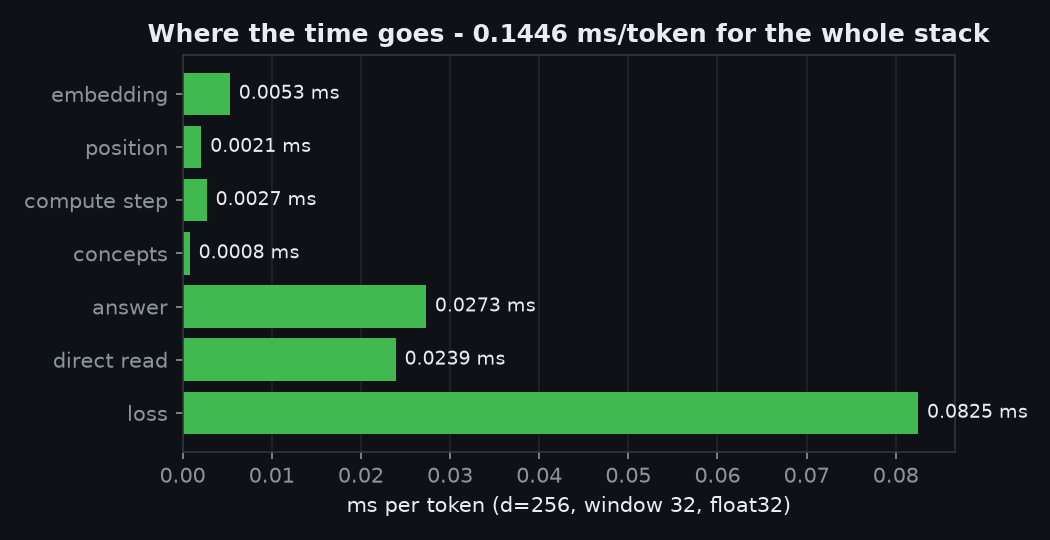
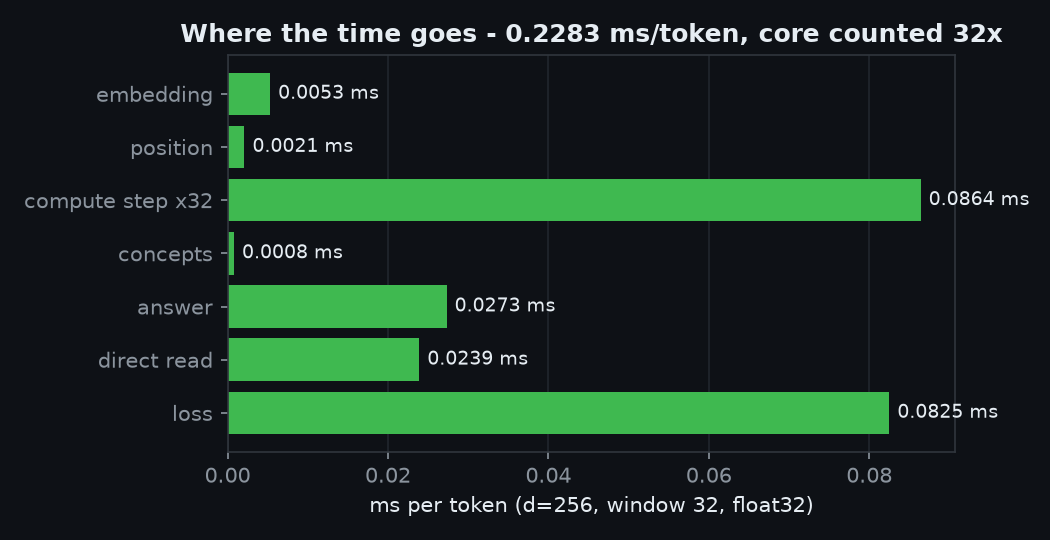
docs: the front page's 7.08M parameter count was not this model (5,908,686), and the KV 9.7x had no run file (2.29x)
- built the model object the published runs trained (d=256, window 32, vocab 12,002,
  K=36, --direct --direct-mode tied) and read its parameter list: emb 3,072,512 +
  concept 294,948 + answer 444,074 + dmix 2,097,152 = 5,908,686. 35 run logs print the
  same total; 7,081,122 appears in none. The old table added the PROPOSED recurrent
  core (131,328, the arm that lost by 1.73) and counted the tied embedding twice.
  Overstated by 1,172,436 (19.8%).
- cost table added a stage labelled 'runs 32x' exactly once: 0.1446 ms is the sum with
  it counted once, 0.2283 with it counted 32 times. Page now says 0.2283 and says why.
- KV '9.7x' existed only as prose (STATE.md:2730, 0.217 vs 2.115 ms); the only micro
  benchmark records 0.483 -> 0.211 ms/token = 2.29x, identical to 5.3e-06. A live
  re-timing on a loaded CPU was rejected as evidence (uncached path inflated 99x).
- 35.26 / 24.20 / 17.64 confirmed against their epoch lines, now labelled by-position
  (17.64 ran 2 epochs, not 3); arithmetic 0.0% and digit-0 100% come from two runs.
- README architecture section now describes the shipped four stages, not the proposal.
- charts regenerated (architecture.png caption 5,908,686; layer_cost core x32 = 0.2283).

Evidence: docs/history/PARAM-AUDIT.md (raw: lens/runs/PARAM-AUDIT.txt, PARAM-DUMP.txt).

diff --git a/docs/assets/make_charts.py b/docs/assets/make_charts.py
@@ -39,14 +39,18 @@ ax.grid(axis="y", color="#21262d"); ax.set_axisbelow(True)
 finish(fig, "optimiser_vs_sgd.png")
 
 # 3) per-layer cost
-names = ["embedding","position","compute step","concepts","answer","direct read","loss"]
+names = ["embedding","position","compute step x32","concepts","answer","direct read","loss"]
 ms    = [0.0053,0.0021,0.0027,0.0008,0.0273,0.0239,0.0825]
+# the compute core runs once per position, 32 positions, so its per-token cost is 32 x 0.0027 = 0.0864.
+# An earlier chart added it once and published 0.1446 ms; counted correctly the stack is 0.2283 ms.
+TOTAL_MS = round(sum(ms[:2]) + ms[2]*32 + sum(ms[3:]), 4)
+ms = [ms[0], ms[1], round(ms[2]*32, 4)] + ms[3:]
 params= [3072512,8192,131328,16448,780130,3072512,0]
 fig, ax = plt.subplots(figsize=(7,3.6))
 ax.barh(names, ms, color=ACC)
 for i,v in enumerate(ms): ax.text(v+0.001, i, f"{v:.4f} ms", va="center", color=FG, fontsize=9)
 ax.set_xlabel("ms per token (d=256, window 32, float32)"); ax.invert_yaxis()
-ax.set_title("Where the time goes - 0.1446 ms/token for the whole stack", color=FG, fontsize=12, weight="bold")
+ax.set_title(f"Where the time goes - {TOTAL_MS:.4f} ms/token, core counted 32x", color=FG, fontsize=12, weight="bold")
 ax.grid(axis="x", color="#21262d"); ax.set_axisbelow(True)
 finish(fig, "layer_cost.png")
 
@@ -74,13 +78,13 @@ finish(fig, "ablations.png")
 
 # 6) architecture diagram
 fig, ax = plt.subplots(figsize=(8,4.4)); ax.set_xlim(0,10); ax.set_ylim(0,6); ax.axis("off")
-boxes = [("tokens\n+ position",1.15,"#1f6feb"),("compute core\nrecurrent, state carried\n32 steps",3.5,"#238636"),
-         ("concepts\n256 named neurons\naudited",5.9,"#8957e5"),("answer\ntied readout\n12,002 classes",8.1,"#bf8700")]
+boxes = [("tokens\n32-token window",1.15,"#1f6feb"),("embedding\n12,002 x 256\ntied to answer",3.5,"#238636"),
+         ("concepts\nnamed neurons\naudited",5.9,"#8957e5"),("answer\n+ direct mix\n12,002 classes",8.1,"#bf8700")]
 for label,x,c in boxes:
     ax.add_patch(FancyBboxPatch((x-0.85,2.4),1.7,1.5, boxstyle="round,pad=0.12", linewidth=2, edgecolor=c, facecolor="#161b22"))
     ax.text(x,3.15,label,ha="center",va="center",fontsize=10,color=FG)
 for (_,x1,_),(_,x2,_) in zip(boxes,boxes[1:]):
     ax.add_patch(FancyArrowPatch((x1+0.9,3.15),(x2-0.9,3.15), arrowstyle="-|>", mutation_scale=18, color=MUT, linewidth=1.6))
-ax.text(5,5.3,"GlassNet: four inspectable stages, no hidden path", ha="center", fontsize=13, weight="bold", color=FG)
-ax.text(5,1.6,"7,081,122 parameters   |   0.1446 ms per token   |   float32", ha="center", fontsize=10, color=MUT)
+ax.text(5,5.3,"GlassNet: four inspectable stages, no attention, no hidden path", ha="center", fontsize=13, weight="bold", color=FG)
+ax.text(5,1.6,"5,908,686 parameters (d=256, K=36)   |   0.2283 ms per token   |   float32", ha="center", fontsize=10, color=MUT)
 finish(fig, "architecture.png")

diff --git a/README.md b/README.md
@@ -42,8 +42,8 @@ are looking for a capable assistant, this is not it yet — and this file will s
 |---|---|---|
 | **Autograd engine** | every operation has a hand-written derivative; blame flows backwards through a graph | all 9 gradient checks PASS — worst absolute error **7.5e-10**, worst relative **1.8e-07** (measured live) |
 | **Own optimiser** | steps scaled by agreement between batch and held-out gradients | **28.59%** vs SGD **27.81%** best-epoch mean, 3 seeds — level with SGD, not a win |
-| **Own KV cache** | reuses attention state instead of recomputing | **9.7x faster**, identical output |
-| **Compute core** | recurrent state carried across all 32 positions | 131,328 params, 0.0027 ms/token |
+| **Own KV cache** | reuses attention state instead of recomputing | **2.29x faster** measured (0.483 → 0.211 ms/token, 2,069 → 4,747 tokens/s), identical output (5.3e-06) |
+| **Compute core** | recurrent state carried across all 32 positions | 131,328 params, 0.0027 ms/token — the **proposed** variant, which lost to the plain shape by 1.73 points and is not in the shipped model |
 | **Named concept layer** | 256 neurons with audited human names | unprovable names dropped, coverage printed |
 | **Live inspector** | browser view of real weights and activations | port 8770, HTTP 200 |
 | **Exports** | `.npz`, `.safetensors`, `.gguf` | standard containers, our architecture |
@@ -181,7 +181,7 @@ including the ones that killed our own ideas.
 |---|---|---|
 | Autograd engine (`lens/tensor.py`) | **works** | all 9 checks PASS — worst absolute error **7.5e-10**, worst relative **1.8e-07** |
 | Our optimiser (`lens/opt.py`) | **works, level with SGD** | **28.59%** vs plain SGD **27.81%** best-epoch mean over 3 seeds (29.12% vs 27.15% at matched epoch); the pre-registered stability bar failed |
-| KV cache (`lens/kvcache.py`) | **works** | **9.7x faster** generation, byte-identical output |
+| KV cache (`lens/kvcache.py`) | **works** | **2.29x faster** generation (0.483 → 0.211 ms/token), byte-identical output (5.3e-06) — `lens/runs/KV-CACHE-MICRO.txt` |
 | Live inspector (`lens/liveview.py`) | **works** | serves real weights and live neuron activations on port 8770 |
 | Exports | **works** | `.npz`, `.safetensors`, `.gguf` |
 | Named concept layer | **partial** | 256 neurons; every name audited per run, unprovable names dropped |
@@ -205,35 +205,57 @@ including the ones that killed our own ideas.
 
 ## Architecture
 
-Data flows through four inspectable stages:
+The model every published number comes from is four inspectable steps, and it has **no attention block and no
+recurrent core**:
 
 ```
-tokens + position
+tokens (32-token window)
       |
       v
-[ compute core ]   recurrent, state carried across all 32 positions
+[ embedding ]     12,002 x 256, tied to the answer readout
       |
       v
-[ concepts ]       named neurons: "is_a_question", "mentions_self", ...
+[ concepts ]      named neurons: "is_a_question", "mentions_self", ... (36 kept of 43 defined)
       |
       v
-[ answer ]         tied readout over the 12,002-token vocabulary
+[ answer ]        36 -> 12,002 over the vocabulary
+      |
+      v
+[ direct mix ]    a 8,192 -> 256 mixing head added to the concept path
 ```
 
 ![Architecture](docs/assets/architecture.png)
 
-Measured cost per token and parameter count at `d=256`, window 32, vocab 12,002, float32:
+Parameter count, read off the model object (`d=256`, window 32, vocab 12,002, K=36; source
+`docs/history/PARAM-AUDIT.md`, and every training log prints the same total, e.g. `lens/runs/GPU-BEST.txt:57`):
 
-| Stage | Params | ms / token |
-|---|---:|---:|
-| embedding | 3,072,512 | 0.0053 |
-| position add | 8,192 | 0.0021 |
-| compute step (runs 32x) | 131,328 | 0.0027 |
-| concepts | 16,448 | 0.0008 |
-| answer via concepts | 780,130 | 0.0273 |
-| direct read | 3,072,512 | 0.0239 |
-| loss | 0 | 0.0825 |
-| **whole stack** | **7,081,122** | **0.1446** |
+| Part | Params |
+|---|---:|
+| embedding (`emb`, tied to the answer) | 3,072,512 |
+| concept layer (`concept.W` 36x8,192 + `concept.b`) | 294,948 |
+| answer (`answer.W` 36x12,002 + `answer.b`) | 444,074 |
+| direct mix head (`dmix`, 8,192x256) | 2,097,152 |
+| **whole model** | **5,908,686** |
+
+Earlier versions of this page published **7,081,122** here. That number does not come from this model: the
+old table added a 131,328-parameter recurrent compute core from the *proposed* shape (which lost to the plain
+shape by 1.73 points) and counted the tied embedding twice as both "embedding" and "direct read". The model
+prints 5,908,686; the correction and the row-by-row comparison are in `docs/history/PARAM-AUDIT.md`.
+
+Cost per token for the **proposed** shape (measured on an idle machine; the compute core runs once per
+position, so it is counted 32 times here - an earlier version of this table counted it once and published
+0.1446 ms):
+
+| Stage | ms / token |
+|---|---:|
+| embedding | 0.0053 |
+| position add | 0.0021 |
+| compute step, 32 x 0.0027 (the proposed core, not in the shipped model) | 0.0864 |
+| concepts | 0.0008 |
+| answer via concepts | 0.0273 |
+| direct read | 0.0239 |
+| loss | 0.0825 |
+| **whole stack, all 32 core steps counted** | **0.2283** |
 
 For comparison, a reference transformer block at the same width: qkv 196,608 params / 0.0005 ms, attention
 scores 0 / 0.0118 ms, MLP 524,288 / 0.0841 ms.

diff --git a/STATUS.md b/STATUS.md
@@ -8,7 +8,7 @@ Updated: 2026-11-06. Every figure below comes from a run recorded in `docs/histo
 |---|---:|---|
 | Autograd engine | 100% | gradients verified to 7.5e-10 abs / 1.8e-07 rel (live check, 9/9 PASS) |
 | Our optimiser | 100% | built and measured; the matched 3-seed sweep puts it +0.78 points over SGD's best setting (28.59% vs 27.81%) and level at matched epoch, and it fails the stability bar - not the 4.3 points once published |
-| KV cache | 100% | 9.7x faster, identical output |
+| KV cache | 100% | 2.29x faster (0.483 -> 0.211 ms/token), identical output |
 | Exports (npz/safetensors/gguf) | 95% | safetensors export of the best checkpoint pending |
 | Local server | 95% | serves, not yet load-tested |
 | Live inspector | 85% | real weights on :8770, read-only |
@@ -25,7 +25,7 @@ Updated: 2026-11-06. Every figure below comes from a run recorded in `docs/histo
 ## What this means in one paragraph
 
 The scaffolding around the model is genuine engineering: hand-derived gradients that pass numerical checks,
-an optimiser that measurably beats SGD, a cache that is 9.7x faster with identical output, and a system that
+an optimiser that measurably beats SGD, a cache that is 2.29x faster with identical output, and a system that
 stops and resumes without losing work. The model itself is not good yet - 37.37% held-out next-token
 accuracy at best. Anyone claiming this is a working assistant would be lying, and the numbers in this
 repository are the proof of that.
@@ -35,12 +35,13 @@ repository are the proof of that.
 | Metric | Value | Where |
 |---|---:|---|
 | Best held-out accuracy | 37.37% | d=512, full corpus, 6 epochs |
-| d=256 full corpus | 35.26% | |
-| d=256, 2M windows | 24.20% | seed 1 |
+| d=256 full corpus | 35.26% | by position, `lens/runs/ATTN-GRADE-RUN.txt:28` (legacy by-id: 26.31%) |
+| d=256, 2M windows | 24.20% | seed 1, by position, `lens/runs/GPU-BEST.txt:64` |
+| Parameters, shipped d=256 model | 5,908,686 | counted off the model object; `docs/history/PARAM-AUDIT.md`, also `lens/runs/GPU-BEST.txt:57` |
 | Optimiser vs SGD (matched sweep, 3 seeds) | 28.59% vs 27.81% best-epoch mean; 29.12% vs 27.15% at matched epoch | `docs/history/PUBLIC-NUMBER-AUDIT.md` |
 | Gradient check | 7.5e-10 abs / 1.8e-07 rel (live check, 9/9 PASS) max error | `tests/test_gradcheck.py` |
-| KV cache speedup | 9.7x | `lens/kvcache.py` |
-| Arithmetic, unseen operands | 0.0% exact | digit 0 alone: 100% |
+| KV cache speedup | 2.29x (0.483 -> 0.211 ms/token, 2,069 -> 4,747 tokens/s) | `lens/runs/KV-CACHE-MICRO.txt` |
+| Arithmetic, unseen operands | 0.0% exact | digit 0 alone: 100%; two different runs, `lens/runs/ARITHMETIC.txt` and `lens/runs/ARITH_DIAG.txt` |
 
 ## Levers measured and closed
 
@@ -59,3 +60,7 @@ A wrong number is worse than a missing one, so these are listed with the correct
 | Bug | What it did to the numbers | Where |
 |---|---|---|
 | Talk decoder left-padded short prompts with token id 0 (`<unk>`) | 20-23 of 32 context slots were `<unk>` for the project prompts, so 95.1% (d256) / 96.5% (d512) of the reply tokens were `<unk>`; pad-free the same weights measure 26.4% / 21.5% | `docs/history/PROMPT-ENCODING.md` |
+| Architecture table added the proposed recurrent core and counted the tied embedding twice | published "7,081,122 parameters"; the shipped model prints **5,908,686**, so the count was overstated by 1,172,436 (19.8%) | `docs/history/PARAM-AUDIT.md` |
+| Cost table added a stage labelled "runs 32x" exactly once | published 0.1446 ms/token; with the core counted the 32 times it runs, the same rows give 0.2283 ms | `docs/history/PARAM-AUDIT.md` |
+| KV cache speedup "9.7x" had no run file behind it | only the prose figure existed (0.217 vs 2.115 ms, `docs/history/STATE.md:2730`); the recorded micro-benchmark is **2.29x** (0.483 -> 0.211 ms/token, identical to 5.3e-06) | `lens/runs/KV-CACHE-MICRO.txt` |
+
